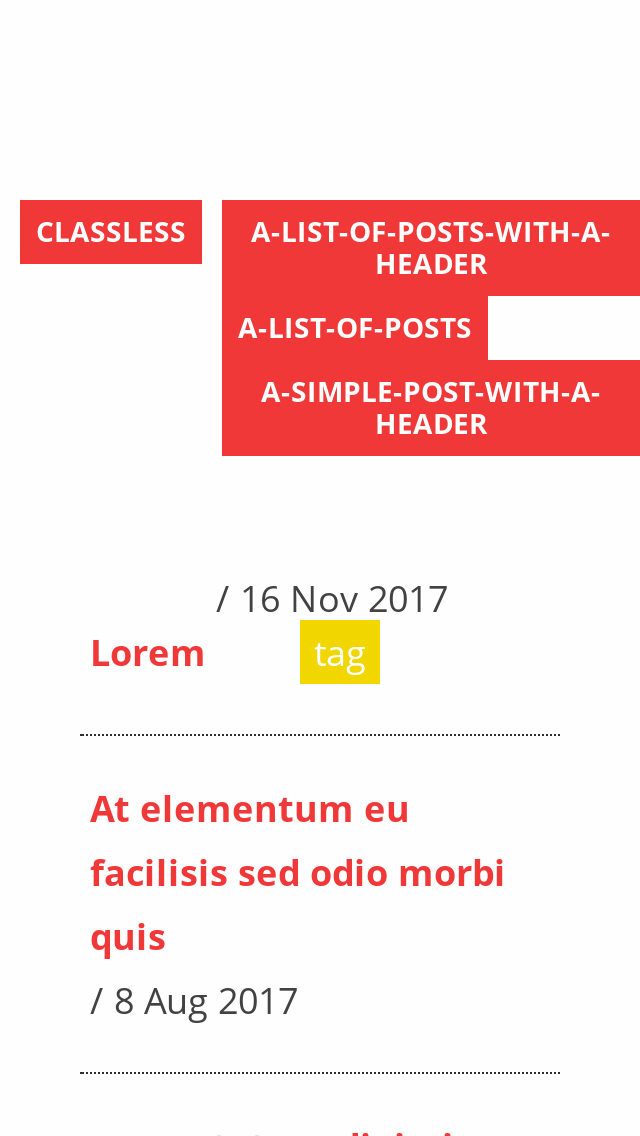
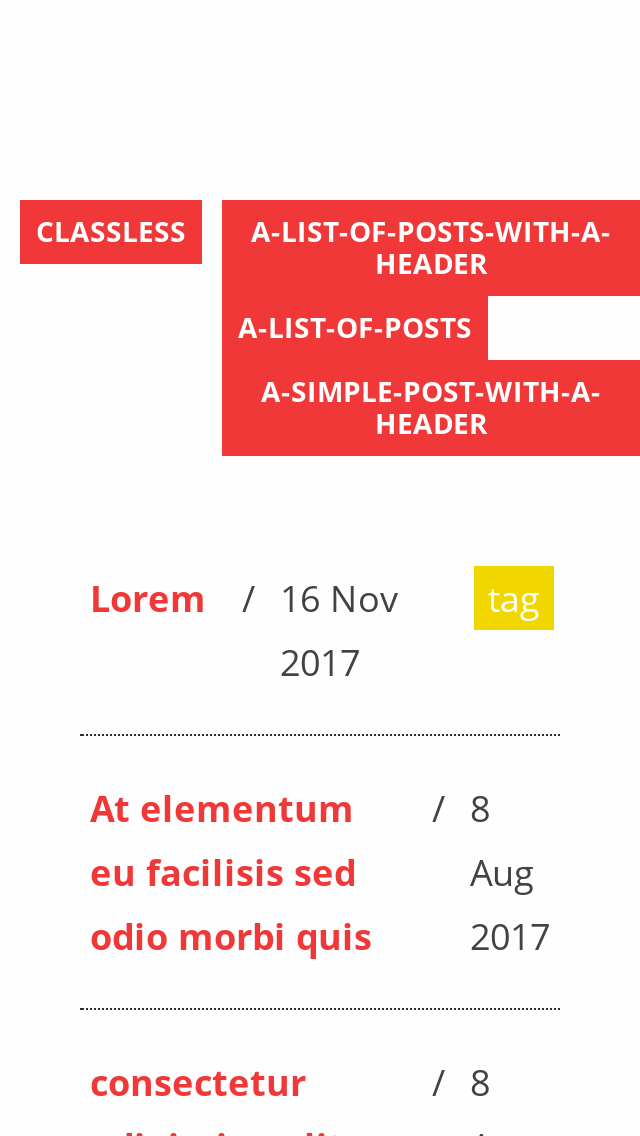
fix ghostwriter listings.

diff --git a/themes/ghostwriter/src/3-style.css b/themes/ghostwriter/src/3-style.css
@@ -123,7 +123,6 @@ body > header h1 a {
 
 header ul {
   list-style: none;
-  margin-top: -5px !important;
   margin-bottom: 5px !important;
 }
 header li {
@@ -214,8 +213,7 @@ main > header + section {
   border-top: 6px solid #303030;
 }
 main > section { margin-bottom: 25px; }
-main > section ul,
-main > section ol {
+main > section > ul {
   list-style: none;
   margin: 20px 40px 0;
 }
@@ -235,18 +233,29 @@ main > section li article:hover {
   padding: 20px 12px;
 }
 
-main > section li article header { display: inline; }
+main > section li article header { display: flex; }
 main > section li article header img { display: none; }
 main > section li article header h1 {
   display: inline-block;
-  margin: 0;
+  margin: 0 18px 0 0;
   text-transform: none;
   font-size: 18px;
 }
-main > section li article aside { display: inline-block; }
-main > section li article aside:before { content: "/ "; }
+main > section li article aside {
+  display: flex;
+  flex-grow: 2;
+}
+main > section li article aside:before {
+  content: "/ ";
+  margin-right: 12px;
+}
 main > section li article time { display: inline-block; }
 main > section li article time:not(aside > time):before { content: "/ "; }
+main > section li article aside ul {
+  list-style: none;
+  text-align: right;
+  flex-grow: 2;
+}
 
 main > footer nav ul { float: right; }
 main > footer nav a:not([href]) {

diff --git a/themes/ghostwriter/theme.css b/themes/ghostwriter/theme.css
@@ -567,7 +567,6 @@ body > header h1 a {
 
 header ul {
   list-style: none;
-  margin-top: -5px !important;
   margin-bottom: 5px !important;
 }
 header li {
@@ -658,8 +657,7 @@ main > header + section {
   border-top: 6px solid #303030;
 }
 main > section { margin-bottom: 25px; }
-main > section ul,
-main > section ol {
+main > section > ul {
   list-style: none;
   margin: 20px 40px 0;
 }
@@ -679,18 +677,29 @@ main > section li article:hover {
   padding: 20px 12px;
 }
 
-main > section li article header { display: inline; }
+main > section li article header { display: flex; }
 main > section li article header img { display: none; }
 main > section li article header h1 {
   display: inline-block;
-  margin: 0;
+  margin: 0 18px 0 0;
   text-transform: none;
   font-size: 18px;
 }
-main > section li article aside { display: inline-block; }
-main > section li article aside:before { content: "/ "; }
+main > section li article aside {
+  display: flex;
+  flex-grow: 2;
+}
+main > section li article aside:before {
+  content: "/ ";
+  margin-right: 12px;
+}
 main > section li article time { display: inline-block; }
 main > section li article time:not(aside > time):before { content: "/ "; }
+main > section li article aside ul {
+  list-style: none;
+  text-align: right;
+  flex-grow: 2;
+}
 
 main > footer nav ul { float: right; }
 main > footer nav a:not([href]) {

diff --git a/body.js b/body.js
@@ -157,7 +157,7 @@ module.exports = class extends React.Component {
               }
             }, this.state.editing_livereload
               ? 'close'
-              : this.state.livereload ? 'livereload on' : 'set livereload'
+              : this.state.livereload ? 'livereload enabled' : 'set livereload'
             )
           ]),
           this.state.editing_livereload && h('form', {
